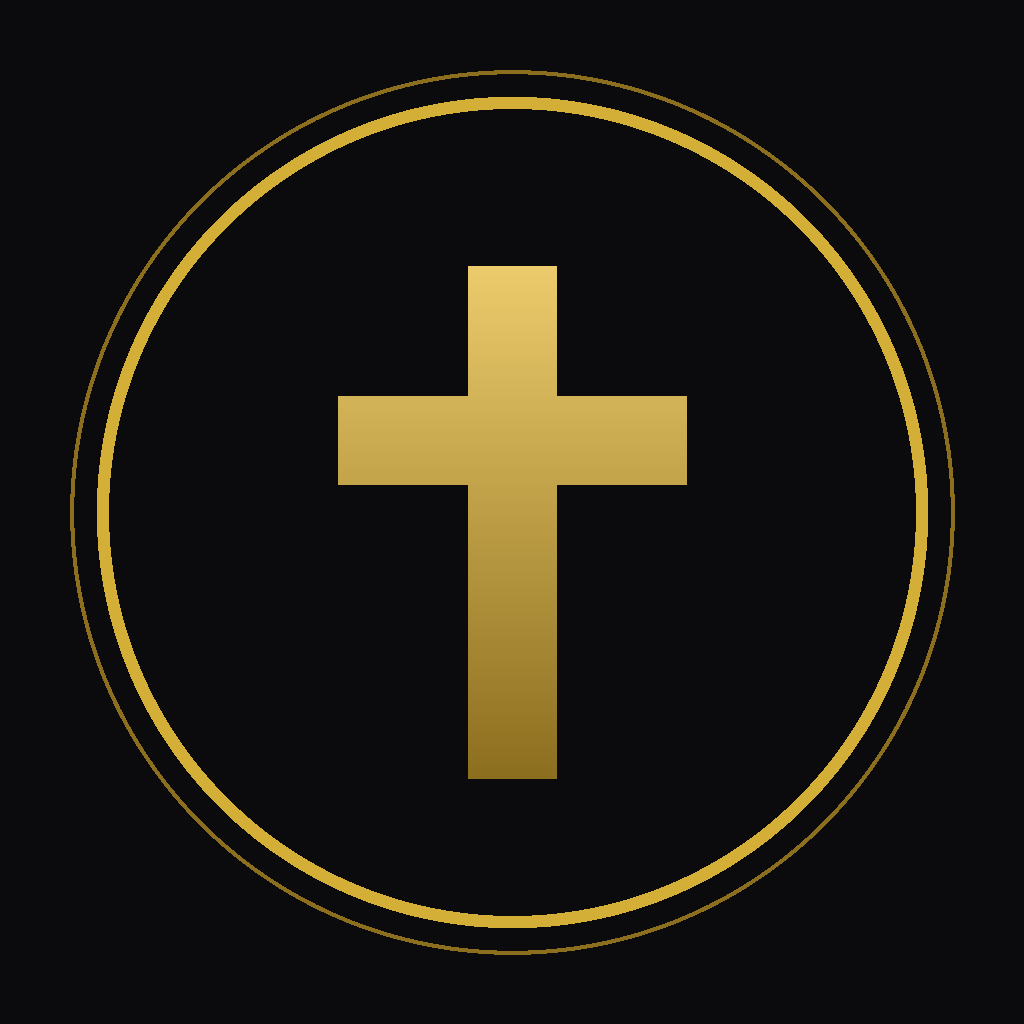
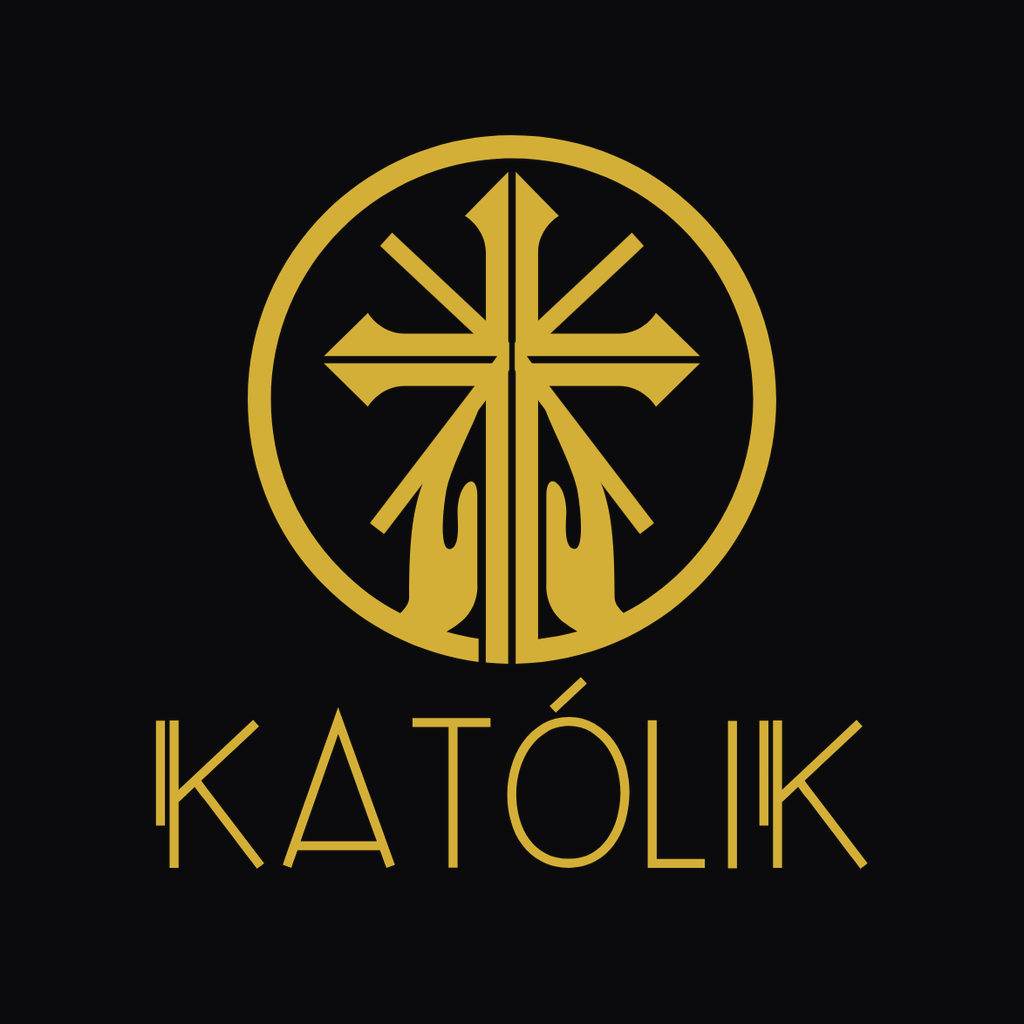
Add files via upload

Changed region(s): [[0.0625, 0.0625, 0.9375, 0.9375], [0.3125, 0.6875, 0.3438, 0.75]]

diff --git a/index.html b/index.html
@@ -42,7 +42,7 @@
     <meta property="og:image" content="https://katolikmcb.github.io/katolik/icon-512.png" />
     <meta property="og:image:width" content="512" />
     <meta property="og:image:height" content="512" />
-    <meta property="og:image:alt" content="Katolik — cruz dourada sobre fundo preto" />
+    <meta property="og:image:alt" content="Katolik — logo dourada sobre fundo preto" />
     <meta property="og:locale" content="pt_BR" />
     <meta name="twitter:card" content="summary" />
     <meta name="twitter:title" content="Katolik — Orações, Terço e Liturgia" />

diff --git a/sw.js b/sw.js
@@ -1,5 +1,5 @@
 /* Katolik Mobile — service worker (offline + atualizações) */
-var CACHE = 'katolik-share-logo-raiz-7d3ac6e2';
+var CACHE = 'katolik-share-icone-logo-8b4e02f7';
 
 /* Teto de espera para navegação: em rede ruim, serve o cache em vez de
    deixar o usuário esperando o fetch desistir (~30s). */
